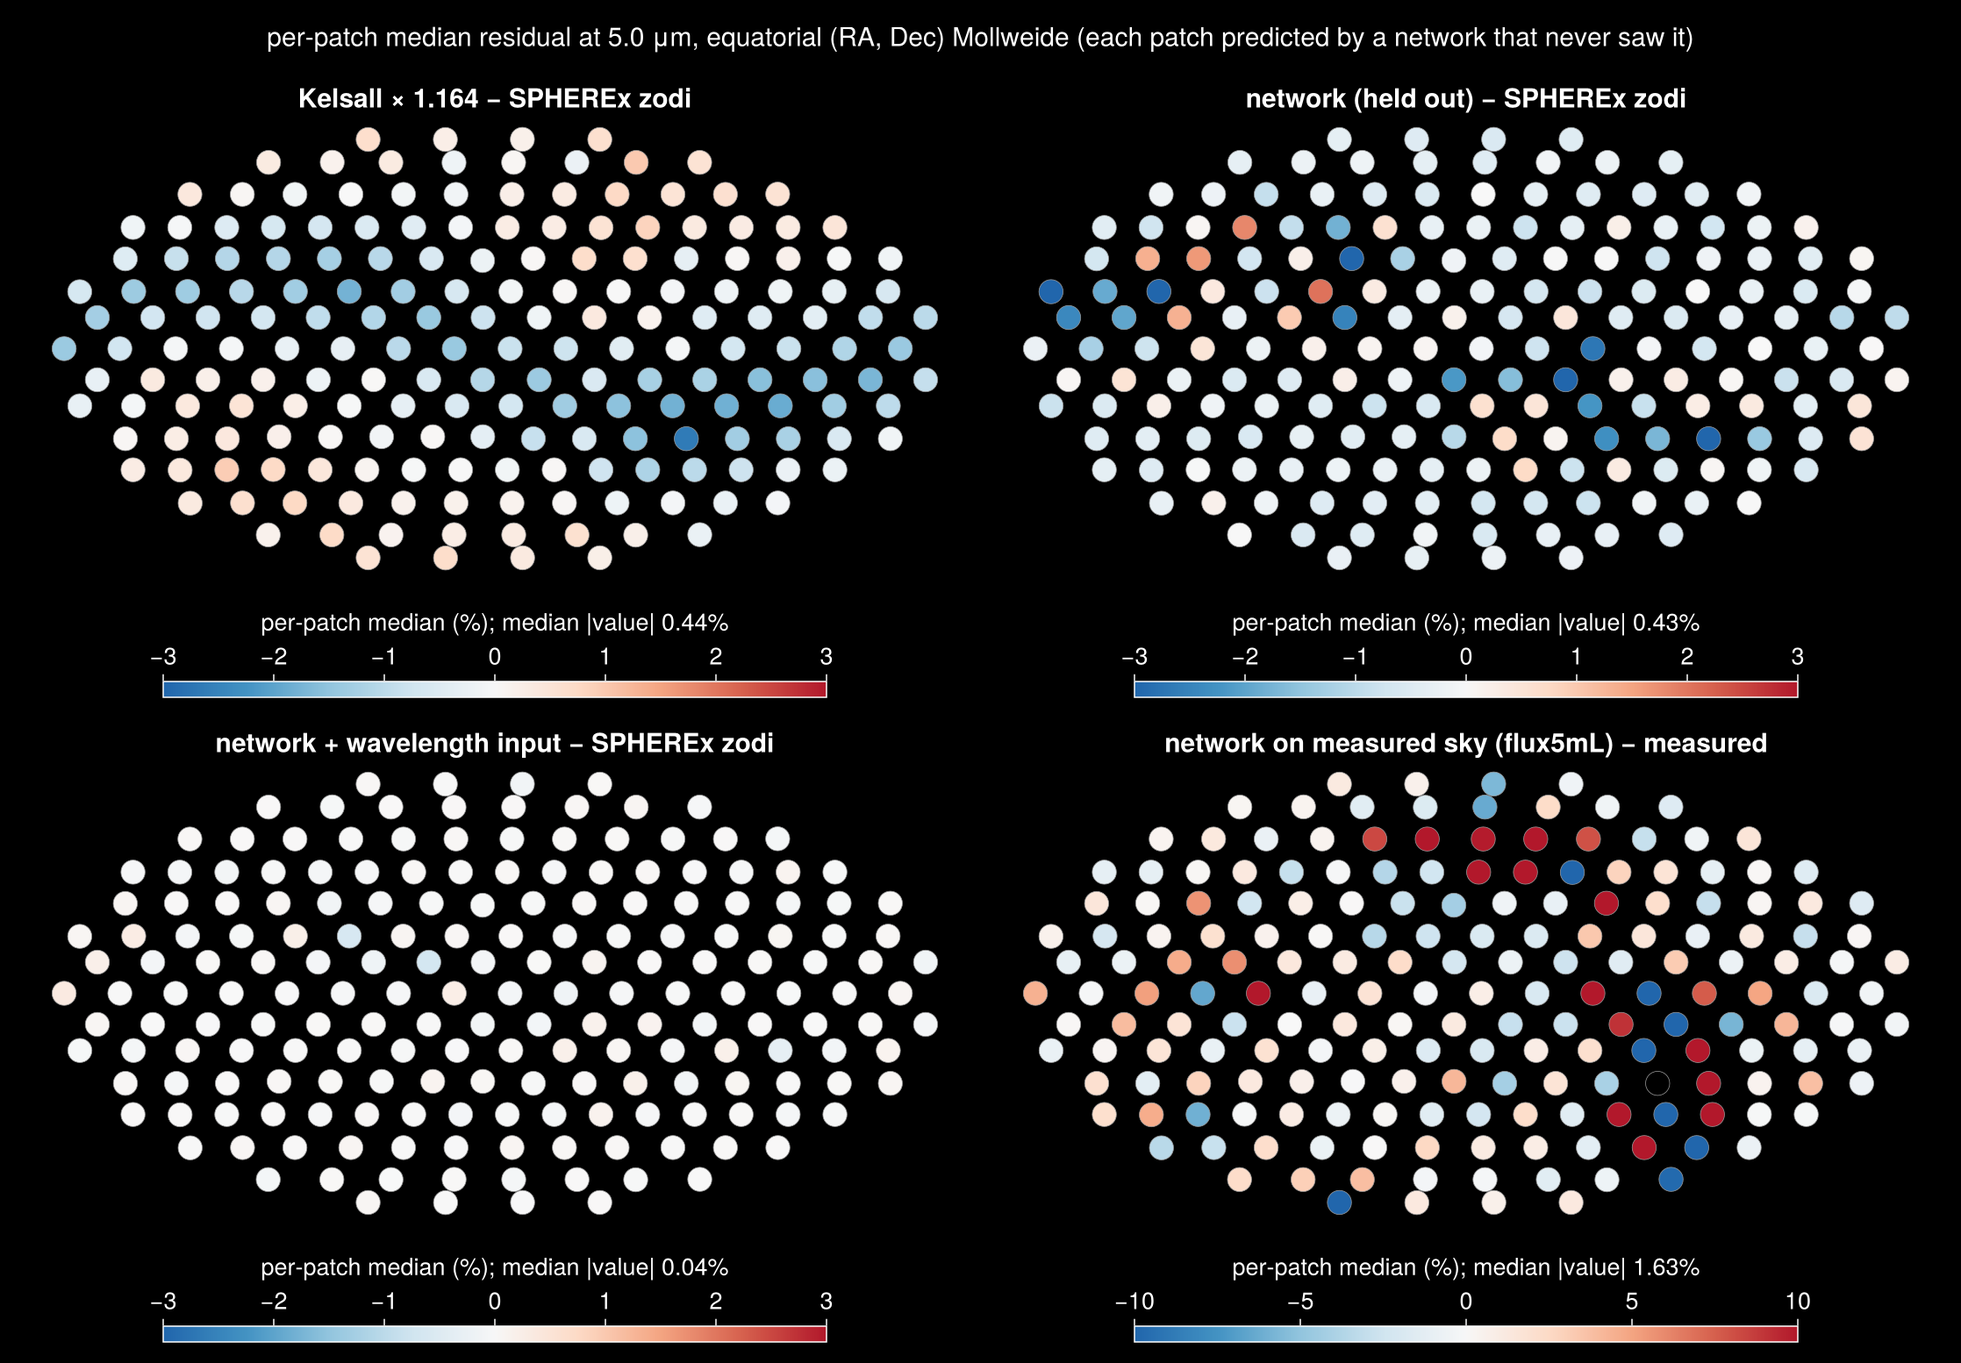
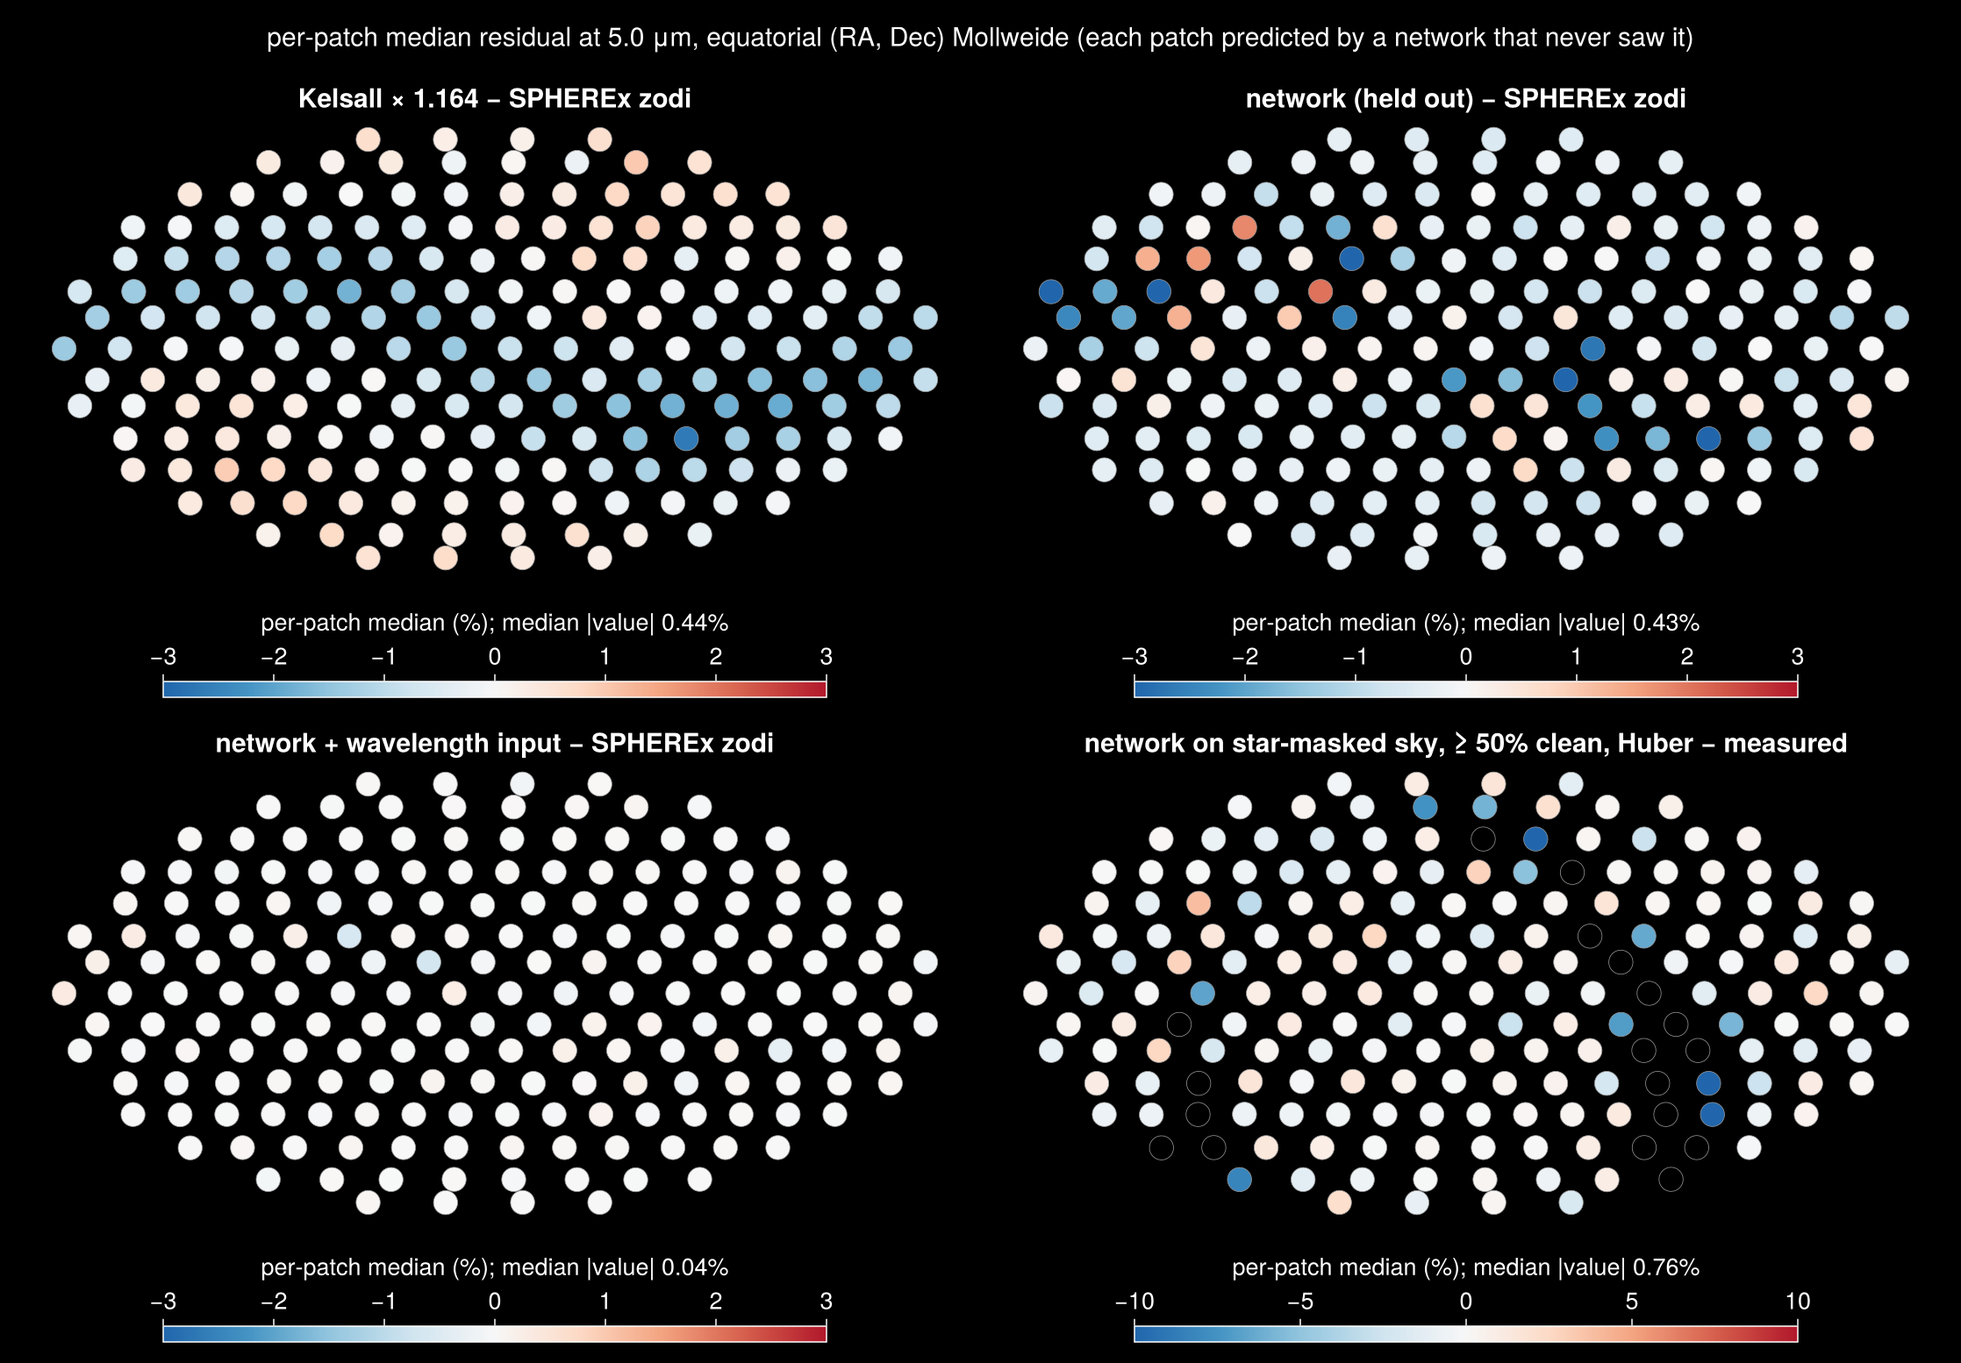
Huber loss + clean-row cut: network beats SPHEREx zodi + constant on the measured sky (1.20 vs 1.44 pct)
Colibri job 254. Slide 11, notebook section 7, STATUS, choices log; flag census cross-match script (in progress).

Claude-Session: https://claude.ai/code/session_012rGthNAyzBgnDfYXWSYd8K

diff --git a/realdata/flags_xmatch.py b/realdata/flags_xmatch.py
@@ -1,0 +1,171 @@
+"""Flag census on the ThinkPad: what the tall table's flags mark at 4.9–5.1 μm (from realdata/talltable_flags.py output).
+
+  A. pixel samples per flag bit over all patches
+  B. flagged static objects (MP_SOURCE) in a sample of patches, cross-matched (peak position, 6″ ≈ one SPHEREx pixel)
+     with Gaia DR3 and AllWISE through the ESA Gaia archive (VizieR and IRSA were down on Nov 14, 2026):
+       galaxy  = AllWISE ext_flag > 0 (extended, incl. 2MASS XSC) or Gaia galaxy probability > 0.5
+       quasar  = Gaia quasar probability > 0.5, or no Gaia star and AllWISE W1 − W2 ≥ 0.8
+       star    = Gaia source with parallax/error > 5 or proper motion/error > 5 ("confirmed"), else any other Gaia
+                 point source ("likely")
+       WISE-only = AllWISE point source with no Gaia counterpart; unmatched = neither
+  C. single-exposure events over all patches, by shape and pipeline flags:
+       satellite streak = ≥ 8 pixels and axis ratio ≥ 5
+       cosmic ray / detector = compact, with pipeline TRANSIENT or OUTLIER pixels
+       sky transient candidate = compact, no pipeline flag, not on a static source (asteroids, flares)
+       on a static source = compact, no pipeline flag, on MP_SOURCE pixels (variable sources, PSF residuals)
+  D. sky transient candidates in the sample's ecliptic patches (|β| < 25°) checked against known asteroids (IMCCE SkyBoT,
+     geocentre, 30″)
+
+    python -I -X utf8 realdata/flags_xmatch.py [EVERY=8]   → data/tt_flags/xmatch_objects.csv, flag_census.txt
+"""
+import sys, glob, time, io
+from pathlib import Path
+import numpy as np
+import duckdb
+import astropy.units as u
+from astropy.coordinates import SkyCoord
+from astropy.table import Table
+from astropy.time import Time
+
+D = Path(__file__).resolve().parent.parent / "data" / "tt_flags"
+EVERY = int(sys.argv[1]) if len(sys.argv) > 1 else 8
+BITS = {0: "TRANSIENT", 1: "OVERFLOW", 2: "SUR_ERROR", 4: "PHANTOM", 5: "REFERENCE", 6: "NONFUNC", 7: "DICHROIC",
+        9: "MISSING_DATA", 10: "HOT", 11: "COLD", 12: "FULLSAMPLE", 14: "PHANMISS", 15: "NONLINEAR", 17: "PERSIST",
+        19: "OUTLIER", 21: "SOURCE"}
+out = io.StringIO()
+def say(s=""):
+    print(s, flush=True); out.write(s + "\n")
+pq = lambda k: f"read_parquet('{D.as_posix()}/{k}_g2_*.parquet')"
+
+# ---- A. counts
+cnt = duckdb.sql(f"SELECT * FROM {pq('counts')}").fetchnumpy()
+npatch = len(cnt["patch"]); ntot = int(cnt["n_pix"].sum())
+say(f"A. {npatch} patches, {ntot:,} pixel samples at 4.9–5.1 μm, {int(cnt['n_exp'].sum()):,} patch-exposures")
+say(f"   no flag: {100 * cnt['n_clean'].sum() / ntot:.1f}%;  any flag other than SOURCE: {100 * cnt['n_artifact'].sum() / ntot:.2f}%")
+for b in sorted(int(k[3:]) for k in cnt if k.startswith("bit")):
+    n = int(cnt[f"bit{b}"].sum())
+    if n: say(f"   bit {b:2d} {BITS.get(b, '(undocumented)'):14s} {n:13,d}  {100 * n / ntot:6.3f}%")
+
+# ---- C. events (all patches)
+ev = duckdb.sql(f"""SELECT *, CASE WHEN n_pix >= 8 AND axis_ratio >= 5 THEN 'satellite streak'
+                       WHEN n_transient + n_outlier > 0 THEN 'cosmic ray / detector'
+                       WHEN n_on_source > 0 THEN 'on a static source'
+                       ELSE 'sky transient candidate' END AS cls FROM {pq('events')}""").fetchnumpy()
+say(f"\nC. {len(ev['cls']):,} single-exposure events in {npatch} patches ({len(ev['cls']) / max(cnt['n_exp'].sum(), 1):.0f} per patch-exposure)")
+for k in ("cosmic ray / detector", "satellite streak", "sky transient candidate", "on a static source"):
+    m = ev["cls"] == k
+    say(f"   {k:24s} {m.sum():9,d}  ({100 * m.mean():5.2f}%)  median size {np.median(ev['n_pix'][m]) if m.any() else 0:.0f} px")
+m = ev["cls"] == "satellite streak"
+if m.any():
+    say(f"   streaks: {len(set(zip(ev['patch'][m], ev['imageid'][m])))} patch-exposures with a streak; median length "
+        f"{np.median(ev['size_arcsec'][m]) / 60:.1f}′, longest {ev['size_arcsec'][m].max() / 60:.0f}′")
+
+# ---- B. objects in the sample
+obj = duckdb.sql(f"SELECT * FROM {pq('objects')} ORDER BY patch, obj").fetchnumpy()
+pnum = np.array([int(p.split("_")[1]) for p in obj["patch"]])
+say(f"\nB. {len(obj['patch']):,} flagged static objects (MP_SOURCE groups) in {npatch} patches "
+    f"(median {np.median(np.bincount(pnum)[np.unique(pnum)]):.0f} per patch, median size {np.median(obj['size_arcsec']):.0f}″)")
+gb_obj = SkyCoord(obj["ra"] * u.deg, obj["dec"] * u.deg).galactic.b.deg
+pb = {p: np.median(np.abs(gb_obj[pnum == p])) for p in np.unique(pnum)}
+# sample: every EVERY-th patch, off the Galactic plane (a plane patch's Gaia cone holds ~10⁶ sources)
+samp = np.isin(pnum, [p for p in np.arange(0, 192, EVERY) if pb.get(p, 0) > 15])
+from astroquery.gaia import Gaia
+Gaia.ROW_LIMIT = -1
+GCOLS = ["ra", "dec", "phot_g_mean_mag", "parallax_over_error", "pmra", "pmdec", "pmra_error", "pmdec_error",
+         "classprob_dsc_combmod_galaxy", "classprob_dsc_combmod_quasar"]
+WCOLS = ["ra", "dec", "w1mpro", "w2mpro", "ext_flag"]
+cache = D / "catalogs"; cache.mkdir(exist_ok=True)
+def cone(table, cols, p, ra0, dec0, rad):
+    """All catalogue rows in a cone around a patch (ESA Gaia archive TAP), cached to data/tt_flags/catalogs/."""
+    f = cache / f"{table.replace('.', '_')}_g2_{p:03d}.ecsv"
+    if f.exists(): return Table.read(f)
+    q = (f"SELECT {', '.join(cols)} FROM {table} WHERE 1 = CONTAINS(POINT(ra, dec), CIRCLE({ra0}, {dec0}, {rad}))")
+    for attempt in range(3):
+        try:
+            t = Gaia.launch_job_async(q).get_results(); t.write(f, overwrite=True); return t
+        except Exception as e:
+            print(f"   {table} patch {p}: {str(e)[:80]} (retry {attempt + 1})", flush=True); time.sleep(10)
+    raise RuntimeError(f"{table} query failed for patch {p}")
+def nearest(ra, dec, t, r_arcsec=6.0):
+    """Index of the nearest catalogue row within r for each position (−1 if none)."""
+    if len(t) == 0: return np.full(len(ra), -1)
+    i, sep, _ = SkyCoord(ra * u.deg, dec * u.deg).match_to_catalog_sky(SkyCoord(np.asarray(t["ra"]) * u.deg, np.asarray(t["dec"]) * u.deg))
+    return np.where(sep.arcsec < r_arcsec, i, -1)
+gm, wm = {}, {}; t0 = time.time()
+for p in np.unique(pnum[samp]):
+    m = np.flatnonzero(samp & (pnum == p)); ra, dec = obj["ra"][m], obj["dec"][m]
+    ra0 = np.degrees(np.angle(np.mean(np.exp(1j * np.radians(ra))))) % 360   # circular mean (patches may straddle RA 0)
+    c0 = SkyCoord(ra0 * u.deg, np.mean(dec) * u.deg)
+    rad = float(c0.separation(SkyCoord(ra * u.deg, dec * u.deg)).deg.max()) + 0.01
+    tg = cone("gaiadr3.gaia_source", GCOLS, p, c0.ra.deg, c0.dec.deg, rad)
+    tw = cone("gaiadr1.allwise_original_valid", WCOLS, p, c0.ra.deg, c0.dec.deg, rad)
+    for k, (ig, iw) in enumerate(zip(nearest(ra, dec, tg), nearest(ra, dec, tw))):
+        if ig >= 0: gm[m[k]] = tg[ig]
+        if iw >= 0: wm[m[k]] = tw[iw]
+    print(f"   patch {p}: {len(m)} objects, Gaia {len(tg)}, AllWISE {len(tw)} in the cone ({time.time() - t0:.0f} s)", flush=True)
+idx_s = np.flatnonzero(samp)
+say(f"   sample: {samp.sum():,} objects in {len(np.unique(pnum[samp]))} patches (every {EVERY}th, |b| > 15°); "
+    f"Gaia match {len(gm):,}, AllWISE match {len(wm):,} within 6″ ({time.time() - t0:.0f} s)")
+def num(v):
+    try: return float(v)
+    except Exception: return np.nan
+cls = []
+for i in idx_s:
+    g, w = gm.get(i), wm.get(i)
+    pgal = num(g["classprob_dsc_combmod_galaxy"]) if g is not None else np.nan
+    pqso = num(g["classprob_dsc_combmod_quasar"]) if g is not None else np.nan
+    ext = int(num(w["ext_flag"])) if w is not None and np.isfinite(num(w["ext_flag"])) else 0
+    w12 = num(w["w1mpro"]) - num(w["w2mpro"]) if w is not None else np.nan
+    if ext > 0 or pgal > 0.5: c = "galaxy"
+    elif pqso > 0.5 or (g is None and w12 >= 0.8): c = "quasar / AGN"
+    elif g is not None:
+        pm = np.hypot(num(g["pmra"]) / num(g["pmra_error"]), num(g["pmdec"]) / num(g["pmdec_error"]))
+        c = "star (parallax or motion)" if num(g["parallax_over_error"]) > 5 or pm > 5 else "star (Gaia point source)"
+    elif w is not None: c = "WISE-only point source"
+    else: c = "unmatched"
+    cls.append(c)
+cls = np.array(cls)
+for k in ("star (parallax or motion)", "star (Gaia point source)", "galaxy", "quasar / AGN", "WISE-only point source", "unmatched"):
+    m = cls == k; say(f"   {k:34s} {m.sum():7,d}  ({100 * m.mean():5.1f}%)")
+with open(D / "xmatch_objects.csv", "w") as f:
+    f.write("patch,obj,ra,dec,n_cells,size_arcsec,peak_ex,class\n")
+    for j, i in enumerate(np.flatnonzero(samp)):
+        f.write(f"{obj['patch'][i]},{obj['obj'][i]},{obj['ra'][i]:.6f},{obj['dec'][i]:.6f},{obj['n_cells'][i]},"
+                f"{obj['size_arcsec'][i]:.1f},{obj['peak_ex'][i]},{cls[j]}\n")
+
+# ---- D. known asteroids among the sky transient candidates (sample, ecliptic patches)
+from astroquery.imcce import Skybot
+ecl = SkyCoord(ev["ra"] * u.deg, ev["dec"] * u.deg).barycentrictrueecliptic.lat.deg
+epn = np.array([int(p.split("_")[1]) for p in ev["patch"]])
+insamp = np.isin(epn, np.arange(0, 192, EVERY)) & (np.abs(ecl) < 25)
+cand = (ev["cls"] == "sky transient candidate") & insamp
+keys = sorted(set(zip(ev["patch"][insamp], ev["imageid"][insamp])))
+keys = keys[::max(1, len(keys) // 300)][:300]                       # ≤ 300 SkyBoT queries, spread over the exposures
+say(f"\nD. {cand.sum():,} sky transient candidates in sample patches with |β| < 25°; known asteroids checked in "
+    f"{len(keys)} of their exposures (IMCCE SkyBoT, geocentre)")
+# For each known small body predicted inside an exposure's footprint (within 60″ of that exposure's events, which are
+# dense: ~10³ per patch-exposure), is there an event within 15″, and of which class?
+rec = {}; nin = {"V<16": 0, "16–18": 0, "V>18": 0}; nhit = dict.fromkeys(nin, 0); ncand_hit, nq, t0 = 0, 0, time.time()
+vb = lambda v: "V<16" if v < 16 else ("16–18" if v < 18 else "V>18")
+for (p, img) in keys:
+    m = (ev["patch"] == p) & (ev["imageid"] == img)
+    e = SkyCoord(ev["ra"][m] * u.deg, ev["dec"][m] * u.deg)
+    ra0 = np.degrees(np.angle(np.mean(np.exp(1j * np.radians(ev["ra"][m]))))) % 360
+    try:
+        nq += 1
+        sb = Skybot.cone_search(SkyCoord(ra0 * u.deg, np.mean(ev["dec"][m]) * u.deg), 0.75 * u.deg,
+                                Time(ev["t_beg"][m][0], format="mjd"), location="500")
+    except Exception:
+        continue                                          # SkyBoT raises when no known body is in the field
+    a = SkyCoord(sb["RA"].to(u.deg), sb["DEC"].to(u.deg))
+    ia, sep, _ = a.match_to_catalog_sky(e)
+    for k in range(len(a)):
+        if sep[k].arcsec > 60: continue                   # outside what this exposure covered at 4.9–5.1 μm
+        b = vb(float(sb["V"][k])); nin[b] += 1
+        if sep[k].arcsec < 15:
+            nhit[b] += 1; c = ev["cls"][m][ia[k]]; rec[c] = rec.get(c, 0) + 1
+            ncand_hit += int(c == "sky transient candidate")
+say(f"   {nq} queries ({time.time() - t0:.0f} s). Known asteroids inside the footprint, and how many sit on an event (≤ 15″):")
+for b in nin: say(f"     {b:6s} {nin[b]:5d} in footprint, {nhit[b]:4d} on an event")
+say(f"   classes of those events: " + ", ".join(f"{k} {v}" for k, v in sorted(rec.items(), key=lambda x: -x[1])))
+(D / "flag_census.txt").write_text(out.getvalue(), encoding="utf-8")

diff --git a/docs/choices_log.md b/docs/choices_log.md
@@ -29,4 +29,6 @@ reconstructed from STATUS.md and the scripts. Newest entries go at the bottom.
 | 2026-11-14 | Judging 7b | Average the seeds (5 on fold 0, 2 on folds 1–4); score per row as median and rms of the % difference on held-out patches; baselines (Kelsall × a, Kelsall × a + b, our emulator × a + b, SPHEREx zodi + b) fit on the same fold's training patches; also report \|b\| > 15° only. | Two seeds on folds 1–4 kept the run count within the ~320 core-hour plan. The \|b\| cut separates the starlight the network can't know from zodi. | sweeps/report_real.jl |
 | 2026-11-14 | Wavelength input | The row's median wavelength (4.9–5.01 μm) as one more network input, placed before the band layer's 6 inputs; targets still moved to 5.0 μm with Kelsall's colour. | SPHEREx zodi / Kelsall changes −1.4% per 0.05 μm and the network had no way to see it. New baseline to beat: Kelsall × f(λ), median ratio in 0.005 μm bins fit on the training patches. | sweeps/train_real.jl (L suffix) |
 | 2026-11-14 | Star mask | Drop pixels with MP_SOURCE (bit 21) set; the tall table's default query already drops every other flag. Masked medians are a separate per-patch file joined on (patch, imageid, subpix); rows with no clean pixels (3.8%) are dropped. Clean fraction kept as metadata. | Bit names from the FLAGS header of our IRSA images. At the NEP 30% of pixels are SOURCE (+0.015 MJy/sr median). Joining keeps ZodiPy and our inputs unchanged. The plane loses 87% of its pixels, so plane results rest on few pixels. | realdata/talltable_extract.py (TTX_MASK=1), ttx_mask_merge.py |
+| 2026-11-14 | Robust loss, clean rows | Relative Huber loss (quadratic below 2% relative error, linear above) and training/testing only on rows with ≥ 50% of pixels unmasked. Baselines scored on the same rows. | User's choice. MSE on the noisy measured sky let a few patches go ~2× wrong; rows with few clean pixels are noisy for every model. The cut removes 27% of rows, mostly the Galactic plane. Alternative not run: measured / Kelsall as target. | sweeps/mb_train.jl (:relhuber), train_real.jl |
+| 2026-11-14 | Flag census | Static objects = level-15 cells with MP_SOURCE in ≥ half the exposures, 8-connected; matched at the peak cell within 6″ to Gaia DR3 and AllWISE (ESA Gaia archive, because VizieR and IRSA were down). Events = TRANSIENT/OUTLIER pixels plus artifact-free pixels > 5σ and > 0.05 MJy/sr above their cell median, joined per exposure; streak = ≥ 8 px and axis ratio ≥ 5. Asteroids checked with SkyBoT (geocentre). | One SPHEREx pixel ≈ 6″ ≈ a level-15 cell. Catalogue matching only off the plane (|b| > 15°), every 8th patch. | realdata/talltable_flags.py, flags_xmatch.py |
 | 2026-11-13 | Elongation | Solar elongation is computed from the patch centre and the low-precision Sun longitude. | Accurate to ≪ 1° for 0.9° patches. | realdata/residual_leak.jl, spherex_vs_kelsall.jl |

diff --git a/docs/slides_week14.md b/docs/slides_week14.md
@@ -165,4 +165,27 @@ Rule from the Week 14 card: every figure slide says what the plot is and the con
     the same network trained on SPHEREx's zodi has no trouble there, so the noisy target (not the inputs) causes it.
   - Rows with < 30% clean pixels are noisier for every model (network 5.2%, baseline 3.5%).
   - Possible next steps: a robust loss (e.g. relative L1) or training on measured / Kelsall, and dropping rows with
-    few clean pixels.
+    few clean pixels. **Done Nov 14 → slide 11.**
+
+### Slide 11: Table slide
+- **Title:** With clean rows and a robust loss, the network beats SPHEREx's zodi model on the measured sky
+- **Table (5 μm, star-masked measured sky, |b| > 15°, rows with ≥ 50% of pixels unmasked, all patches held out in turn;
+  the same 141,387 rows for every line):**
+
+| Model | Median \|Δ\| | rms | Rows off by > 10% |
+|---|---|---|---|
+| Network + λ (all masked rows, MSE loss) | 2.16% | 8.85% | 6.5% |
+| Network + λ, trained on ≥ 50%-clean rows | 1.29% | 4.46% | 2.2% |
+| **Network + λ, ≥ 50%-clean rows, relative Huber loss** | **1.20%** | **2.77%** | **0.8%** |
+| SPHEREx zodi + constant (fit on training patches) | 1.44% | 2.63% | — |
+| Kelsall × f(λ) | 1.82% | 3.39% | — |
+
+- **What the table is:** How closely each model predicts the measured, star-masked sky on patches it never saw.
+- **Conclusion:** Training only on rows that keep at least half their pixels removes most of the bad patches, and a
+  loss that is gentle on outliers removes the rest: the network now predicts the measured sky better than SPHEREx's own
+  zodi model plus a constant.
+- **Speaker notes:**
+  - Relative Huber loss: quadratic below 2% relative error, linear above (δ = 0.02).
+  - The ≥ 50% cut keeps 143,751 of 197,523 rows; it removes most of the Galactic plane (13% of plane pixels survive the
+    mask), so this result is for the sky away from the plane.
+  - 20 runs (2 arms × 2 seeds × 5 folds) on Colibrí, job 254.

diff --git a/STATUS.md b/STATUS.md
@@ -36,7 +36,12 @@ Task results so far (Nov 13; slide text in docs/slides_week14.md):
   - **Star mask (approved Nov 14; Discovery 700324, Colibrí 243):** drop MP_SOURCE pixels (the tall table's default
     query already drops artifact flags). 59% of pixels kept (73% off the plane, 13% on it). Measured sky, |b| > 15°:
     network + λ 2.3% (12.2%) vs SPHEREx zodi + b 1.7% (3.2%): masking helps all models by 10–30%, but the network still
-    has a few badly wrong patches. Next ideas: robust loss, measured / Kelsall target, drop low-clean rows. Slide 10.
+    has a few badly wrong patches. Slide 10.
+  - **Robust loss + clean rows (approved and run Nov 14, Colibrí job 254):** relative Huber loss (δ 2%) and training only
+    on rows ≥ 50% clean. Measured sky, |b| > 15°, same rows: network **1.20% (rms 2.77%)** vs SPHEREx zodi + b 1.44%
+    (2.63%); rows off by > 10%: 6.5% → 0.8%. The network now beats SPHEREx's model + constant on the median. Slide 11.
+  - **Flag census (in progress, Discovery 700408–700415):** per-bit counts, flagged objects cross-matched with Gaia DR3 /
+    AllWISE, single-exposure events (cosmic rays, satellite streaks, asteroid check with SkyBoT).
   - Task 6 waits for the SPHEREx data location on Colibrí.
 
 ## Best model
